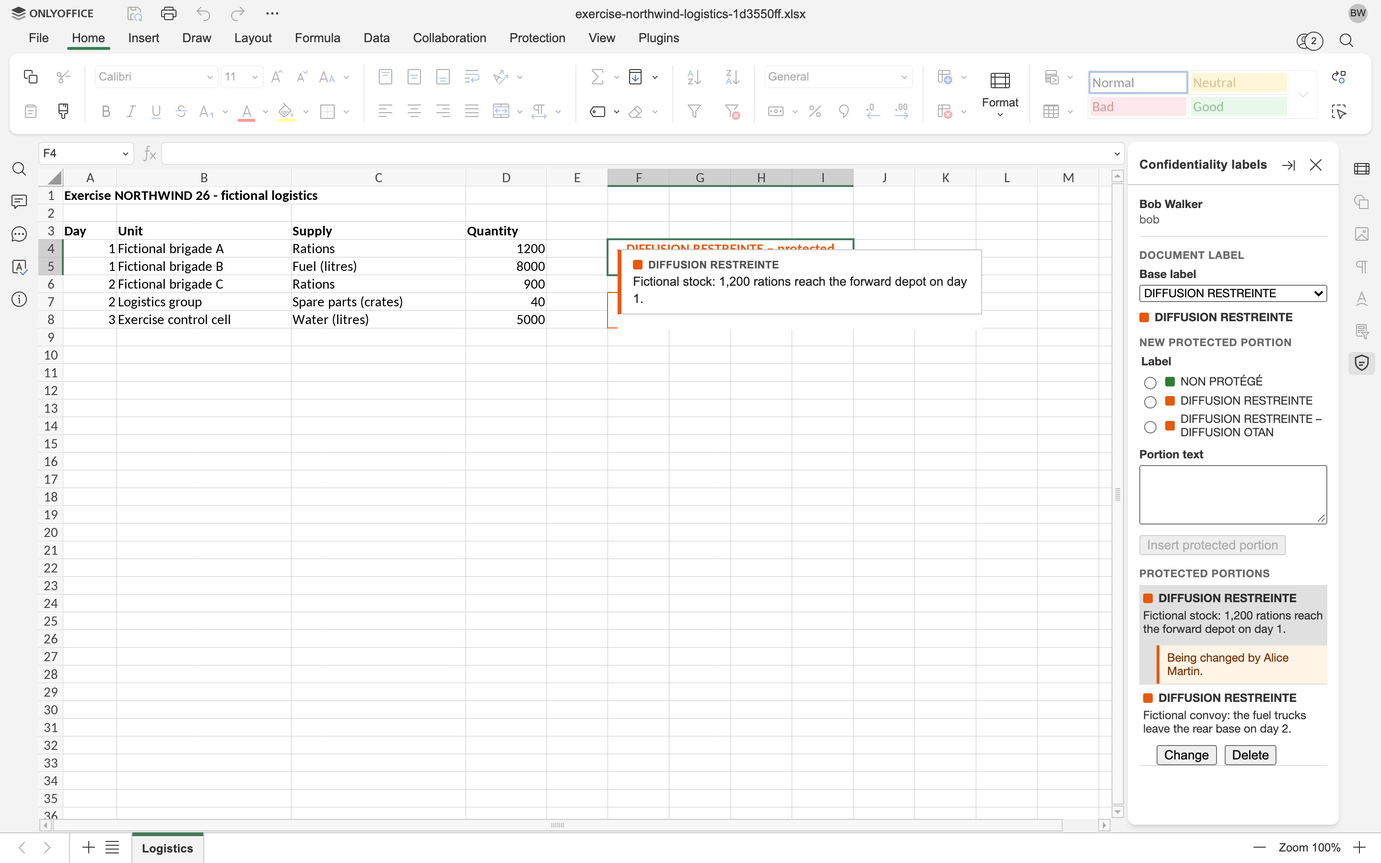
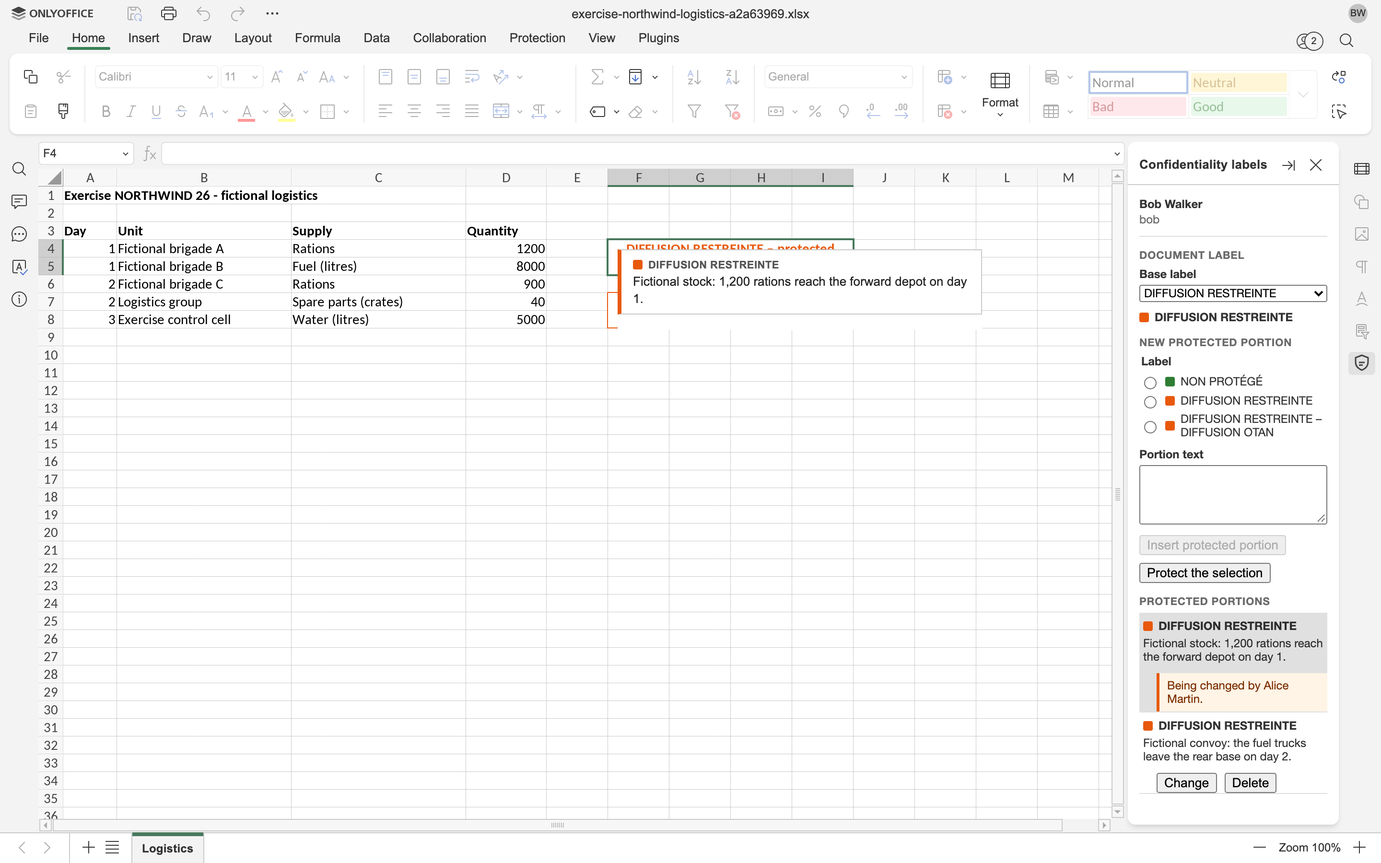
docs: Describe the protection of existing content
The glossary names it, the README and the walkthrough describe it, and
SECURITY.md says what it protects and what it does not: the content
went through ONLYOFFICE in clear before. The walkthrough's screenshots
of the workbook are taken again, since the panel offers the action.

Refs #121

Changed region(s): [[0.8125, 0.6533, 0.9688, 0.9333], [0.4062, 0.0, 0.5938, 0.0311]]

diff --git a/SECURITY.md b/SECURITY.md
@@ -58,12 +58,13 @@ These are known properties of the demonstrator, not vulnerabilities:
 - In a workbook, a portion's placeholder is locked by an ONLYOFFICE user protected range that lists no editor: each co-author's editor refuses typing, pasting, cutting, filling, sorting or deleting rows over it, but the lock is an ONLYOFFICE extension, which each browser enforces for its own user, and which Microsoft Excel keeps without enforcing. A co-author can still delete a whole sheet, and with it its portions' ranges, which the next save logs as removed. The panel writes a placeholder before it locks it. To change or delete a portion, it lifts the lock in its own browser only, for the command that writes, outside the editor's history, and to delete one it removes the range, through the editor's internal model, which ONLYOFFICE does not document and a new version may change; it reads the ranges, checks the selected cells and finds the active cell through that model too. The end-to-end tests guard the lift, the lock that comes back after it, and the removal; should a new version refuse to remove a range, the panel writes nothing and the portion stays whole. Anyone able to run commands in the editor could lift the lock the same way. Formulas that reference a placeholder see its marking, never the portion's text, which stays in the envelope.
 - While a co-author types in a cell of a workbook, their editor holds back every change that reaches them until they leave the cell, a portion's raise to a label beyond their clearance included: their panel keeps showing the text it showed them until then. What they write stays in their browser as well; a portion change held back for more than the minute the policy service remembers its version would let another author change the same portion, and the workbook would keep both versions. The panel therefore writes nothing into a workbook while its author types in a cell, which it learns through the editor's internal model. In co-editing, the spreadsheet editor's undo takes back an author's command only when it can reverse all of it: a change of a portion's text comes undone, with its earlier envelope and version, while an insertion, a change of label or a deletion stays whole.
 - A workbook's page marking sits in its sheets' headers and footers, which the spreadsheet editor shows only when printing, in print preview and in PDF: on screen, only the panel shows the document label. Any author can change or remove the header and footer strings from the editor's dialog, which no lock prevents; the next author's panel to read them writes them again. The panel writes them through the editor's internal model, as it reads the ranges. A left or right section, which the panel keeps as long as the string fits within Microsoft Excel's 255 characters, can run into the centred marking once printed, even a short one when the marking is long and the page narrow: on A4 in portrait, the demo template's sections ran into the marking of a workbook that holds a more restrictive portion, hence a template that prints in landscape. A marking too long to fit within 255 characters on its own, which no label of the demo policy has, is written whole, and Excel may not keep it.
+- Protecting existing content protects it from then on only: it went through ONLYOFFICE in clear before, as the panel warns its author before they confirm. The Document Server's working files of the editing session, co-authors' browsers, the stored file until the next save, downloads and other copies made before keep it, and the editor's undo brings it back into the cells. In a workbook, the panel protects the cells' displayed values, rows of tab-separated cells, and their formats, data validation and conditional formatting go with them. It refuses cells that hold a comment, which would stay in clear, a formula, whose result depends on other cells, a merge, a portion, a table or a pivot table; other parts of the workbook that copy cell values, such as the cache of a pivot table built elsewhere on them, keep them. The panel reads the cells through the editor's builder API and checks them through its internal model, as for an insertion; it compares them again, in the command that writes, with what it read, and writes nothing if they changed.
 - Anyone able to edit a document can change a portion's label in clear, which the document label, the placeholder in the body and refused readers rely on. Only readers who open the envelope see the label bound to it, with a warning; someone who holds the envelope's key could even replace that bound label.
 - The signature of the document label's binding proves that the platform computed the label from the labels in clear, and bound it to the package parts it references, when it stored the file; it proves nothing of who wrote the content. The policy service signs whatever the saved labels in clear give, so a label lowered in the editor is signed too, and logged. The signature covers the parts ADatP-4778.2 lists; not the package's relationships (`_rels`) and content types (`[Content_Types].xml`), nor its other parts, the Custom XML parts among them: the base label's part, and the portions' parts, whose envelopes bind their labels. In a workbook, some of the parts that Tables 5-2 and 5-3 leave out hold content, and a change to them goes unnoticed: threaded comments (`xl/threadedComments/`), which repeat a comment's text, and their authors (`xl/persons/`); pivot caches (`xl/pivotCache/`) and the caches of links to other workbooks (`xl/externalLinks/`), which copy cell values; embedded objects (`xl/embeddings/`); drawings (`xl/drawings/`), which place charts and pictures on a sheet; tables (`xl/tables/`), slicers (`xl/slicers/`, `xl/slicerCaches/`), chart sheets (`xl/chartsheets/`), cell metadata (`xl/metadata.xml`) and themes (`xl/theme/`). A verifier must digest again the package parts that the signature's `Manifest` references: `xmlsec1` reports them but still exits with 0 when one of them no longer matches. A file that the policy service could not sign is stored unsigned, and the failure logged; its binding then references the parts the panel named, those a text document saved by ONLYOFFICE always holds, even in a workbook, until a save signs it. The demo key and its self-signed certificate live in `deploy/.env`, not in a hardware security module; a deployment would use a key and a certificate its PKI issues.
 - The sensitivity label that the policy service writes at each save, with a label mapping, is metadata that Office reads and a Microsoft 365 tenant applies its rules to: it encrypts nothing, and says nothing of the protected portions. It follows the document label only, without its informative categories, so a document that holds more restrictive portions carries the sensitivity label of its base label. The binding signature covers it, since it sits in the custom properties part. Editors can delete it in the editor's file information; the next save writes it again. The editor never sees the properties the policy service writes, so the portal sends the stored file's custom properties with each save, to keep the label's date and action id while it stays; when that part exceeds about 6 KB, it sends none and logs it, and the date and the action id then follow the saved file, which holds them as the editing session opened. Whether Word shows the label has not been checked with a real tenant. The platform writes no Sensitivity Label Information part (`docMetadata/LabelInfo.xml`), which ONLYOFFICE drops at each save and the signature does not cover; since Word, in a tenant that enables co-authoring of encrypted files, would show that part's label rather than the signed one, the portal logs a stored file that holds one whenever it serves it, with `Stored file holds a Sensitivity Label Information part`, and serves it all the same.
 - The portal has the policy service check the signature of every stored file it serves, to the Document Server and for a download, against the configured certificate rather than the one the file names. It logs a file whose signature no longer holds, a file signed with another key among them, whose binding holds anything its signature does not cover, or whose parts named in the signature's `Manifest` changed since signing, with the names of those parts; and a file whose binding has no signature, until its next save signs it. A file without labels is not logged: no save signs it. It serves every file all the same: the check shows an alteration after the fact, and never refuses a document. It detects only what the signature covers: a change to the package's relationships, content types or Custom XML parts, the base label's and the portions' parts among them, goes unnoticed, except an added Sensitivity Label Information part, which the portal reports. Nothing ties a signature to a document or to its latest save: an earlier signed version of a file, or another document's signed file, put in its place, counts as valid. A file whose signature alone was removed is logged as unsigned, as a file stored before signing existed; one whose binding and base label were both removed counts as a file without labels. After a change of signing key, files signed with the previous one are logged as no longer matching their signature until their next save.
 - The portal checks who opens a document against its saved base label, and decides again for whoever joins its editing session as an editor. The Document Server reports no viewer: someone whose clearance is revoked while a session lasts can still view it live with a configuration signed earlier, and an editor who rejoins sees the document as it is before the portal disconnects them. A base label that excludes someone holding a configuration, or whose holders the portal no longer knows after a restart, ends the session for everyone, viewers included: the Document Server then refuses the earlier configurations, and the document opens again once the session's last save is stored.
-- Lowering a base label or a portion label is logged, not prevented: someone able to edit the file outside the panel could still lower it. The portal's log is the journal of these changes: every change of a base label or a portion and every deletion of a portion made in the panel, with the person who made it, the labels before and after and, for a portion, its versions; every upload, with the person, the document, the label the file carried, as a base label, and where it came from, whether its binding signature matched, and the base label kept, a lowering marked as such; and every save that lowers a label in clear, a portion's in its part or in its placeholder's tag included, or that removes a portion's placeholder, with the people who held a configuration for the editing session, since the Document Server only names a save's last editor. It never holds a portion's text. A change the panel reports while the policy service cannot decide who may open the document is refused and not retried: only the comparison of saves then records it, if it lowers a label. The journal lives in the portal container's log, which Docker keeps as long as the container exists.
+- Lowering a base label or a portion label is logged, not prevented: someone able to edit the file outside the panel could still lower it. The portal's log is the journal of these changes: every change of a base label or a portion, every deletion of a portion and every protection of existing content made in the panel, with the person who made it, the labels before and after and, for a portion, its versions; every upload, with the person, the document, the label the file carried, as a base label, and where it came from, whether its binding signature matched, and the base label kept, a lowering marked as such; and every save that lowers a label in clear, a portion's in its part or in its placeholder's tag included, or that removes a portion's placeholder, with the people who held a configuration for the editing session, since the Document Server only names a save's last editor. It never holds a portion's text. A change the panel reports while the policy service cannot decide who may open the document is refused and not retried: only the comparison of saves then records it, if it lowers a label. The journal lives in the portal container's log, which Docker keeps as long as the container exists.
 - An upload stores the file as the person sent it, with the platform's parts added: its content in clear stays in clear, in the portal's storage and on the Document Server, as that of any document. The base label is the label the file carries, as its base label part, the document label of its binding or, with a label mapping, the label the mapping pairs with its sensitivity label, unless the person chooses another under the base label rule, and nothing checks it against the content. A sensitivity label is read as [MS-OFFCRYPTO] §2.6.3 reads it, for the mapped tenant only: the tenant's element in the Sensitivity Label Information part decides when there is one, a removed or disabled one meaning no label, and its custom properties otherwise; a sensitivity label the mapping does not know counts as none, and so do several, several elements for the tenant, and one that the mapping pairs with several labels. The upload removes the Sensitivity Label Information part, which the platform never keeps (ADR 0005): a tenant's custom label properties, which its element made stale, go with it, and another tenant's label that only its element held is written as custom properties, without the name Office keeps elsewhere, so that every organisation keeps its label. The label read is only as trustworthy as the file: a base label part or a binding written outside the platform, a lowered one included, is taken as it is. The policy service checks the file's binding signature against the platform's certificate, and the journal records whether it matched: a binding another tool signed with its own key does not match, and neither does a signed binding whose document label the file's labels in clear no longer give, as when someone changed the base label part, which the signature does not cover. A file whose signature does not match is accepted all the same, and signed afresh. A label read that belongs to another security policy, or that the security policy does not define, is refused, whatever base label the person chooses. The policy service reads the portion labels in clear that the file already holds, as at a save, and keeps its portions as they are; the base label and the binding it writes replace any the file carried, and at signing the sensitivity label the label mapping pairs with the document label replaces the tenant's labels in the file. It refuses the files it cannot read, those that Microsoft Purview or a password encrypted among them: the platform decrypts none. An upload whose binding cannot be signed is refused, not stored unsigned. A workbook is read and kept as a text document is, its portions being those whose part and user protected range it holds. The document keeps the format its main part gives, whatever the name says, and the uploaded file's name with that format's extension, which the list shows only to the people who may open it; its identifier, which the portal's log names, is that name reduced to lowercase letters, digits and hyphens.
 - The portal's refusal controls who opens a document; the document's content in clear stays in clear in the portal's storage and on the Document Server. The document list shows how many documents a person may not open, and an address tells whether a document exists.
 - The panel reads the KAS's "pdp-denied" answer as a decision OpenTDF could not make, shows a technical failure and retries it. OpenTDF 0.27 also gives that answer to evaluation errors it does not classify, which the panel then keeps retrying instead of showing a refusal.

diff --git a/README.md b/README.md
@@ -44,6 +44,7 @@ The stack runs with Docker Compose: ONLYOFFICE Docs Community Edition, the OpenT
 - **Base label.** The author gives the document's unprotected content a base label, which decides who may open the document. Anyone may raise it; only cleared administrators are offered lower ones.
 - **Changing a portion.** An author who can read a protected portion changes its text and its portion label from the panel, under a portion lock that one author holds at a time. The panel takes the lock from the policy service, renews it while its edit form stays open, and releases it once the change is saved or dropped. The labels offered are those the author's clearance allows that do not lower the current one; lower ones only to an administrator cleared for it. Co-authors see the portion being changed, with the author's name, then its new version. The file keeps only the latest envelope, and the portion version counts the changes.
 - **Deleting a portion.** Under the same lock, an author who can read a protected portion deletes it from the panel once they confirm. One editor command removes its placeholder and its part, and writes the document label and the page marking again without it; co-authors' panels drop it.
+- **Protecting existing content.** In a workbook, an author who finds cells that call for a restrictive label selects them, picks a label and presses **Protect the selection**, in the panel or in the editor's context menu. The panel shows their displayed values as the portion will hold them, rows of tab-separated cells as a copy from the grid gives them, and warns that they already went through ONLYOFFICE in clear: they are protected from then on only, and copies made before, such as the editor's working files of the session, keep them. Once the author confirms, the panel encrypts them as the text of a new portion, and one editor command clears the cells and makes them its placeholder, as an insertion does. Cells that hold a comment, which would stay in clear, a formula, which the author turns into its value first, a merge, a portion, a table or a pivot table, which clearing them would break, are refused, as is a selection of several blocks of cells; nothing is written when the cells changed since the panel read them. The journal records the protection, never the content.
 - **Page marking.** The document label's marking, centred, in bold and in its colour, at the top and the bottom of every page. The panel writes it with the document label, after an insertion, a change, a deletion or a new base label, in a locked content control of its own that opens every header and closes every footer, first page and even pages included; the rest of a template's header and footer stays. An author whose panel finds the page marking missing, moved, changed by hand or stale, in a document labelled before page markings existed for instance, writes it again.
 - **Co-editing.** Portions and the document label reach co-authors in real time, and concurrent insertions converge to the right label.
 - **Workbooks.** A workbook, created from the workbook template, opens in ONLYOFFICE's spreadsheet editor with the labelling panel, which gives it its base label and shows its document label as in a text document, and in its read-only viewer, on the left, as in the text viewer. The portal decides who opens a workbook, signs its binding, writes its sensitivity label, checks its signature and journals its base label changes as a text document's, and downloads it as XLSX. A protected portion goes into empty cells the author selects: the panel merges them into a placeholder that shows the portion's marking in its label's colour, bold and bordered, locked by an ONLYOFFICE user protected range that lets no one type into it through the editor ([ADR 0006](docs/adr/0006-a-workbook-portion-is-a-user-protected-range.md)); cells that hold a value, a merge or another portion are refused. The page marking goes into the centre of every sheet's headers and footers, first and even pages included, bold and in the label's colour, keeping their left and right sections within Microsoft Excel's 255 characters; the spreadsheet editor shows it only when printing, in print preview and in PDF, while the panel shows the document label on screen. Any author who can read a workbook's portion changes its text and its label, or deletes it, from the panel and under its portion lock, as in a text document; a deletion unmerges and clears its cells. The panel follows the selection, in the editor and in the viewer: it highlights the portion whose placeholder holds the active cell, the bubble shows that portion's text over the placeholder until the selection leaves it or Escape closes it, and a click on a portion in the panel selects its placeholder. Co-editing works as in a text document: portions, the document label and the page marking reach co-authors in real time, concurrent insertions converge to the right label, and a base label that excludes a co-author ends the editing session. While an author types in a cell, the spreadsheet editor holds back what they write and what reaches them until they leave the cell, so the panel writes nothing meanwhile and says why. An undo takes back a whole portion command; in co-editing, ONLYOFFICE takes back only a change of a portion's text, and leaves an insertion, a change of label or a deletion whole. A workbook is uploaded as a text document is, and keeps its portions.
@@ -59,7 +60,7 @@ The stack runs with Docker Compose: ONLYOFFICE Docs Community Edition, the OpenT
 
 - **Clearance administration.** Members of the `dcs-maquette-admin` group see and edit every clearance on a portal page, among the choices the security policy offers. OpenTDF applies a change, a revocation for instance, at the next key request.
 - **Lowering a label.** Only administrators whose clearance allows the current base label, or the current portion label, are offered lower ones.
-- **Journal of label changes.** The portal logs every change of a base label or a portion and every deletion of a portion made in the panel, with the person who made it, the labels and, for a portion, its versions; every upload, with the person, the document, the label the file carried and where it came from, whether the file's binding signature matched, and the base label kept, marked as a lowering when it is one; and every save that lowers a label in clear or removes a portion, with the people who held a configuration for the editing session. The journal never holds a document's text: `docker compose logs portal | grep -E 'Base label|Portion|Document uploaded'`.
+- **Journal of label changes.** The portal logs every change of a base label or a portion, every deletion of a portion and every protection of existing content made in the panel, with the person who made it, the labels and, for a portion, its versions; every upload, with the person, the document, the label the file carried and where it came from, whether the file's binding signature matched, and the base label kept, marked as a lowering when it is one; and every save that lowers a label in clear or removes a portion, with the people who held a configuration for the editing session. The journal never holds a document's text: `docker compose logs portal | grep -E 'Base label|Portion|Document uploaded|Existing content'`.
 
 ### Portal
 
@@ -89,7 +90,7 @@ The stack runs with Docker Compose: ONLYOFFICE Docs Community Edition, the OpenT
 
 ### What the project proves
 
-- **No portion text reaches ONLYOFFICE.** Every portion text the tests write carries a marker. A test looks for it in the editor's co-editing exchanges and in the saved file, and the CI in the Document Server's working files, in clear, URL-encoded or in base64, as UTF-8 or UTF-16, archives included. Unencrypted portions, whose text goes through ONLYOFFICE by design, carry a canary instead, which the same searches must find.
+- **No portion text reaches ONLYOFFICE.** Every portion text the tests write carries a marker. A test looks for it in the editor's co-editing exchanges and in the saved file, and the CI in the Document Server's working files, in clear, URL-encoded or in base64, as UTF-8 or UTF-16, archives included. Unencrypted portions, whose text goes through ONLYOFFICE by design, carry a canary instead, which the same searches must find. Protected existing content went through ONLYOFFICE before its author protected it, so the tests protect content that carries no marker.
 - **OpenTDF decides as the security policy does.** A test checks that OpenTDF's decision is the policy's access decision for every demo account and label.
 - **Hybrid keys in both browsers.** A test checks, on Chromium and Firefox, that a new portion's key is wrapped for the hybrid key and read back.
 - **End-to-end tests in CI.** The CI starts the whole stack, runs the end-to-end tests against it, and keeps a trace, a screenshot and the saved DOCX files of every test.
@@ -237,7 +238,7 @@ Sign in with one of the fictional accounts below: the password is the login.
 
 ### Walk through the demo
 
-[docs/walkthrough.md](docs/walkthrough.md) follows the demo scenario step by step, with pictures: a base label, portions, co-editing, a change the co-author sees, a raise to SPÉCIAL FRANCE that shuts the allied officer out, a deletion, the page markings, the signed binding, a revocation and an upload, then, in a workbook, the steps from the base label to the signed binding, its page marking showing in the print preview. `pnpm --filter @dcs/e2e demo` replays it with a video of each person's browser, and the CI keeps each run's videos for 14 days.
+[docs/walkthrough.md](docs/walkthrough.md) follows the demo scenario step by step, with pictures: a base label, portions, co-editing, a change the co-author sees, a raise to SPÉCIAL FRANCE that shuts the allied officer out, a deletion, the page markings, the signed binding, a revocation and an upload, then, in a workbook, the steps from the base label to the signed binding, with the protection of rows already filled, its page marking showing in the print preview. `pnpm --filter @dcs/e2e demo` replays it with a video of each person's browser, and the CI keeps each run's videos for 14 days.
 
 ### Deploy
 

diff --git a/docs/walkthrough.md b/docs/walkthrough.md
@@ -106,16 +106,22 @@ Alice deletes the second portion: it leaves both panels, and its cells are empty
 
 ![The confirmation of a portion's deletion in a workbook](screenshots/walkthrough/16-workbook-deletion.png)
 
-## 17. The page marking of a workbook
+## 17. Rows already filled, protected
+
+The last two rows of supplies turn out to be for French eyes only. Alice selects them, cells already filled that a portion's insertion refuses, picks DIFFUSION RESTREINTE – SPÉCIAL FRANCE and presses **Protect the selection**. The panel shows their values as the portion will hold them, rows of tab-separated cells, and warns that they already went through ONLYOFFICE in clear: they are protected from now on only, and copies made before, such as the editor's working files of this session, keep them. Once she confirms, the values go, encrypted, into a new portion's envelope, and the rows become its placeholder: Bob's panel shows "Access denied". The editor's context menu offers the same action. The journal records the protection, never the values.
+
+![The panel's confirmation, with the warning and the values of the two rows](screenshots/walkthrough/17-workbook-protection.png)
+
+## 18. The page marking of a workbook
 
 A workbook's page marking goes into the centre of every sheet's headers and footers, first and even pages included: the spreadsheet editor shows it only when printing, in the print preview (**File**, **Print**) and in a PDF, while the panel shows the document label on screen.
 
-![The print preview, with the page marking at the top and the bottom of the page](screenshots/walkthrough/17-workbook-print-preview.png)
+![The print preview, with the page marking at the top and the bottom of the page](screenshots/walkthrough/18-workbook-print-preview.png)
 
-## 18. The signed binding of a workbook
+## 19. The signed binding of a workbook
 
 Once both leave the editor, the stored workbook carries the page marking and a binding signed as a text document's, over the parts that ADatP-4778.2 lists for a workbook: `xmlsec1` verifies it the same way, as [step 8](#8-the-signed-binding) tells. This step has no picture.
 
 ## The journal
 
-Every step that changes a label is in the portal's journal, which never holds a portion's text: in `deploy`, `docker compose logs portal | grep -E 'Base label|Portion|Document uploaded'`.
+Every step that changes a label is in the portal's journal, which never holds a portion's text: in `deploy`, `docker compose logs portal | grep -E 'Base label|Portion|Document uploaded|Existing content'`.

diff --git a/CONTEXT.md b/CONTEXT.md
@@ -41,8 +41,12 @@ A spreadsheet document, edited in ONLYOFFICE's spreadsheet editor, whose protect
 _Avoid_: spreadsheet (for the file), Excel file
 
 **Protected portion**:
-A part of a document whose text is typed in the labelling panel, never in the document itself, and which carries its own label; the document only shows its placeholder.
+A part of a document whose text is typed in the labelling panel, never in the document itself, or taken from content already in the document by a protection of existing content, and which carries its own label; the document only shows its placeholder.
 _Avoid_: secret paragraph, encrypted block, protected cell
+
+**Protection of existing content**:
+Making a protected portion of content already in the document, which its author selected, saw and confirmed, warned that it went through ONLYOFFICE in clear: the content is protected from then on only, and copies made before keep it.
+_Avoid_: retroactive protection, encryption in place
 
 **Placeholder**:
 What the document shows of a protected portion: its marking, where the portion sits, which authors cannot edit but through the labelling panel. In a text document it is a locked block; in a workbook, a merged range of locked cells.
@@ -83,7 +87,7 @@ The marking of the document label, repeated at the top and the bottom of every p
 _Avoid_: banner, header label
 
 **Journal**:
-The record of label changes: each change of a base label or of a protected portion, and each deletion of a protected portion, made in the panel, with who made it; each upload, with the label read from the file and the base label it got; and each save that lowers a label or removes a protected portion, with who took part in the editing session. It never holds a portion's text.
+The record of label changes: each change of a base label or of a protected portion, each deletion of a protected portion and each protection of existing content, made in the panel, with who made it; each upload, with the label read from the file and the base label it got; and each save that lowers a label or removes a protected portion, with who took part in the editing session. It never holds a portion's text.
 _Avoid_: audit trail, history
 
 **Envelope**:
